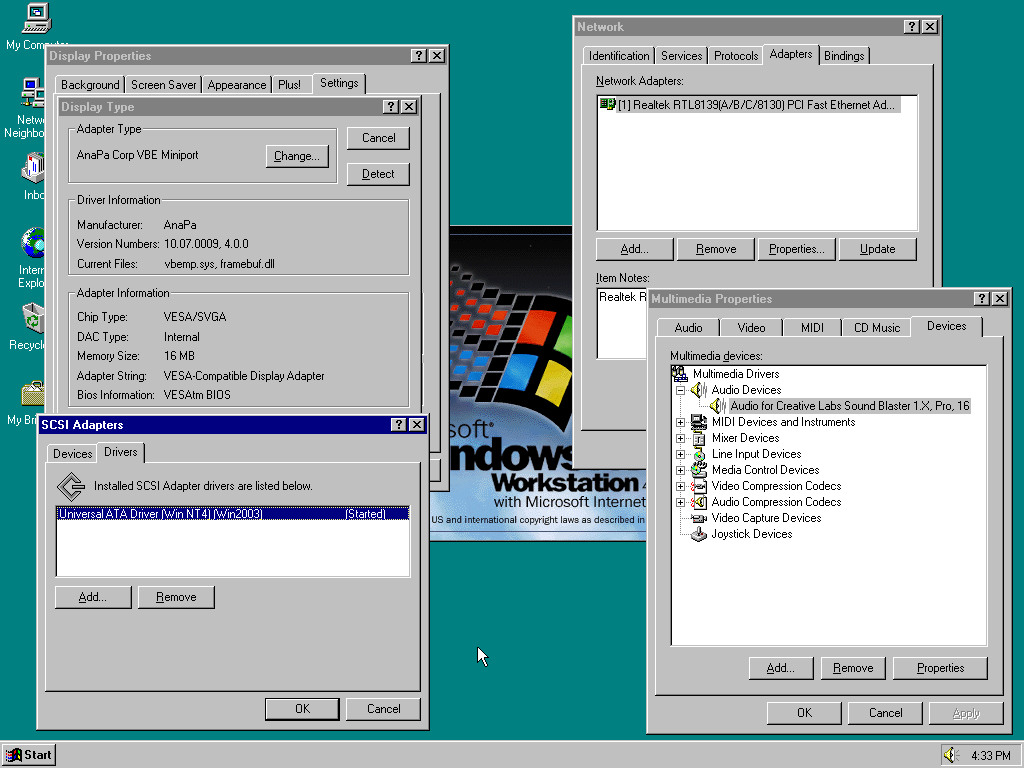
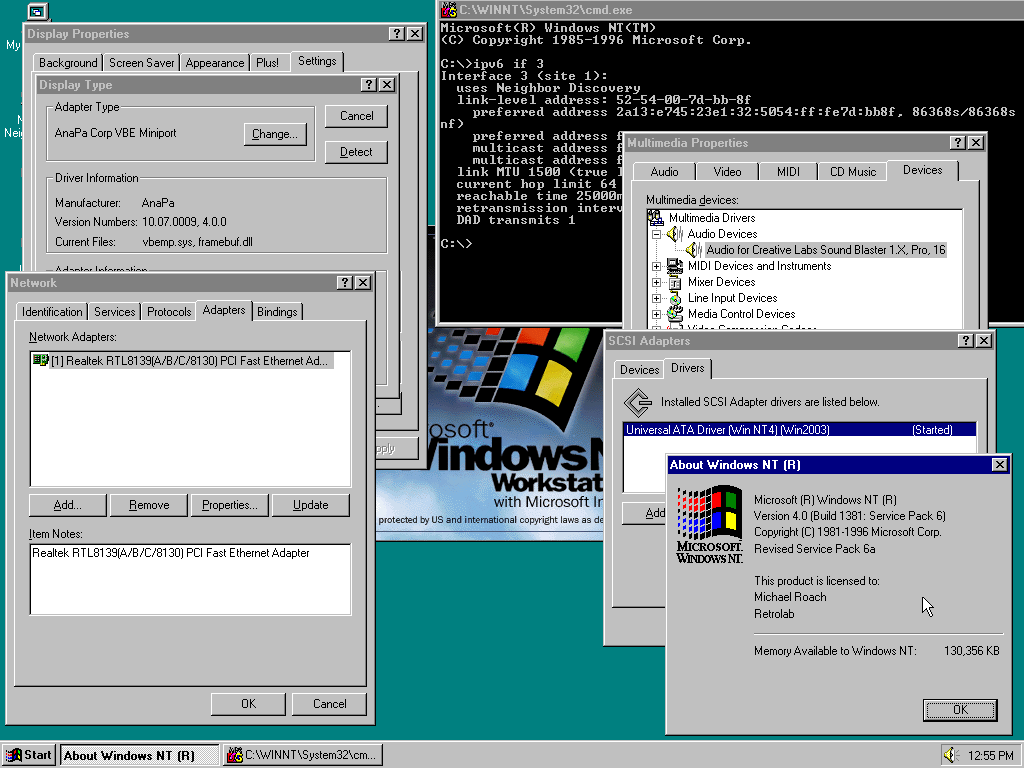
update: screenshots and more info for NT4 install

diff --git a/content/posts/2026/windows-nt-libvirt/index.md b/content/posts/2026/windows-nt-libvirt/index.md
@@ -13,9 +13,8 @@ images:
 thumbnail: /2026/08/windows-nt-4-on-libvirt/images/nt4-desktop.png
 ---
 
-To celebrate this month being the 30th anniversary of Windows NT 4.0's release,
-I wanted to put together a little guide for how to get it up and running smoothly
-in libvirt on Linux.
+To celebrate 24 August 2026, the 30th anniversary of Windows NT Workstation 4.0's release,
+I put together a guide for how to get it up and running smoothly in libvirt on Linux.
 
 <!--more-->
 
@@ -28,24 +27,6 @@ only tested and working with with Workstation and regular Server.
     alt="Windows NT 4.0 Desktop"
 >}}
 
----------------
-Create a new VM
----------------
-
-When creating a new VM, libvirt won't detect the OS from the install media.
-
-1. Open the search box
-2. Tick **Include end of life operating systems**
-3. Pick **Windows NT Server 4.0 (winnt4.0)**
-
-I pick a disk size of 4 GB since the NT installer won't let you format and install
-to a C: drive larger than 4 GB. You can always add more disks later.
-
-128 MB of RAM is typically ample for NT.
-
-At the last step, **do not** begin installation yet. We have a bunch of settings
-to change. Tick *Customise configuration before install*.
-
 -------
 Drivers
 -------
@@ -54,6 +35,37 @@ This guide makes driver recommendations to get the best virtual NT 4.0 experienc
 
 I've assembled a floppy disk image with all necessary drivers: [qemu-nt4.img](resources/qemu-nt4.img)
 
+---------------
+Create a new VM
+---------------
+
+When creating a new VM, libvirt won't detect the OS from the install media.
+
+### OS Select
+
+1. Open the search box
+2. Tick **Include end of life operating systems**
+3. Pick **Windows NT Server 4.0 (winnt4.0)**
+
+{{< figure
+    src="images/libvirt-os-select.png"
+    alt="Selecting Windows NT Server 4.0"
+>}}
+
+### Disk
+
+I pick a disk size of 4 GB since the NT installer won't let you format and install
+to a C: drive larger than 4 GB. You can always add more disks later.
+
+### RAM
+
+128 MB of RAM is typically ample for NT.
+
+### Don't install, yet
+
+At the last step, **do not** begin installation yet. We have a bunch of settings
+to change. Tick **Customise configuration before install**.
+
 
 -------------
 Configuration
@@ -61,7 +73,7 @@ Configuration
 
 ### CPU
 
-Disable *Copy host CPU configuration*. Set the model to `pentium-v1`.
+Disable **Copy host CPU configuration**. Set the model to `pentium-v1`.
 
 ### Boot Options
 
@@ -73,6 +85,11 @@ There is no "press spacebar to install..." with a timeout like Windows 2000 and 
 To avoid having to eject and re-insert the virtual CD-ROM multiple times,
 make the hard drive have first boot priority. With a blank hard drive image,
 you'll boot into the installer, and after the first phase, off the hard drive.
+
+{{< figure
+    src="images/libvirt-boot-order.png"
+    alt="Boot Options showing HDD before CD-ROM"
+>}}
 
 ### IDE cache mode
 
@@ -91,8 +108,8 @@ card from AMD and works fine, but you'll be limited to 10 Mbit which can be roug
 depending on what you use the VM for.
 You won't find `pcnet` in the *Device model* dropdown, but you can type it in or edit the XML.
 
-Your other option is the Realtek `rtl8319`. This is a 100 Mbit card that's well-supported
-by NT 4, but you'll need a driver floppy or CD-ROM to install it.
+Your other option is the Realtek `rtl8139`. This is a 100 Mbit card that's well-supported
+by NT 4, but you'll need to bring your own drivers.
 
 ### Sound
 
@@ -122,9 +139,23 @@ at low resolutions.
 If you want to install network support during setup, a floppy drive and image is
 the natural way to do this.
 
-------------
-During setup
-------------
+----------------------
+During NT installation
+----------------------
+
+### Network
+
+* If you're using `pcnet` as your NIC, you can auto-detect this during setup.
+* If you're using the `rtl8139` and have the floppy driver disk available, you
+  can get the NIC installed at this point.
+
+You can of course always add networking support after the initial installation.
+
+{{< figure
+    src="images/nt4-setup-nic.png"
+    alt="Windows NT setup - Network card"
+>}}
+
 
 ### Display
 
@@ -139,13 +170,17 @@ Once your new NT install is up and running, there are few more things you'll wan
 
 ### ATA Driver
 
-By default, your I/O will be running in PIO mode which is *terribly* slow.
+By default, your disk I/O will be running in PIO mode which is *terribly* slow.
 Unless you want your VM to feel like you're running on a vintage 486, you'll want
 to install an ATA driver so you're running in DMA mode.
 
 The [UniATA] driver works great and will provide a noticeable improvement in disk I/O performance.
 
-In **Control Panel**, open up **SCSI Adapters**
+1. In **Control Panel**, open up **SCSI Adapters**
+2. On the **Drivers** tab, click **Add...**, then **Have Disk...** and enter the path to the UniATA drivers. If you're using my floppy image, it's `A:\uniata`
+3. Select **Universal ATA Driver (Win NT 4) (Win2003)**
+4. After that's added, select **IDE CD-ROM (ATAPI 1.2)/Dual-channel PCI IDE Controller** and then **Remove** it.
+5. Reboot and you'll now be running with fast I/O.
 
 [UniATA]: http://alter.org.ua/en/soft/win/uni_ata/index.php
 
@@ -165,6 +200,19 @@ Install the right drivers for your card. **VMWare SVGA** (for `vmvga`) and
 I've found that `vmvga` can have some strange rendering issues like the mouse being
 too large and screen elements persisting. The VBE driver causes a license to
 appear during the blue startup screen, but that's not a problem.
+
+To install the driver:
+1. Right-click on the desktop and click **Properties**
+2. On the **Settings** tab, click **Display Type...**
+3. Click **Change** and then **Have Disk...**
+
+If you're using my driver disk, now you can enter `A:\vga` or `A:\vmvga` depending
+on which adapter you're using.
+
+Note: If you're using `vga`, after rebooting your system your display will be set to
+640x480 which obscures the "OK" button in the **Display Properties** window.
+If you tab through the 3 buttons at the bottom of this window, hit tab once more and then
+enter to apply the settings.
 
 ### Service Pack 6
 
